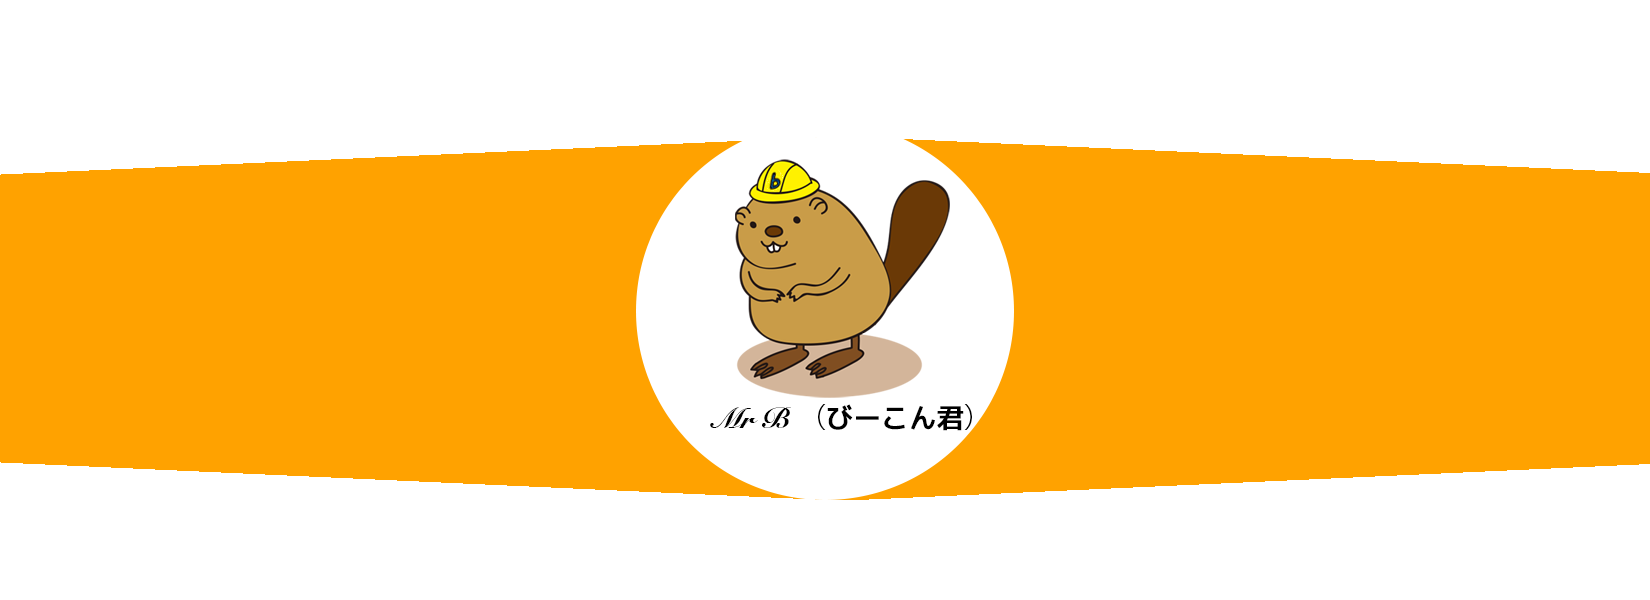
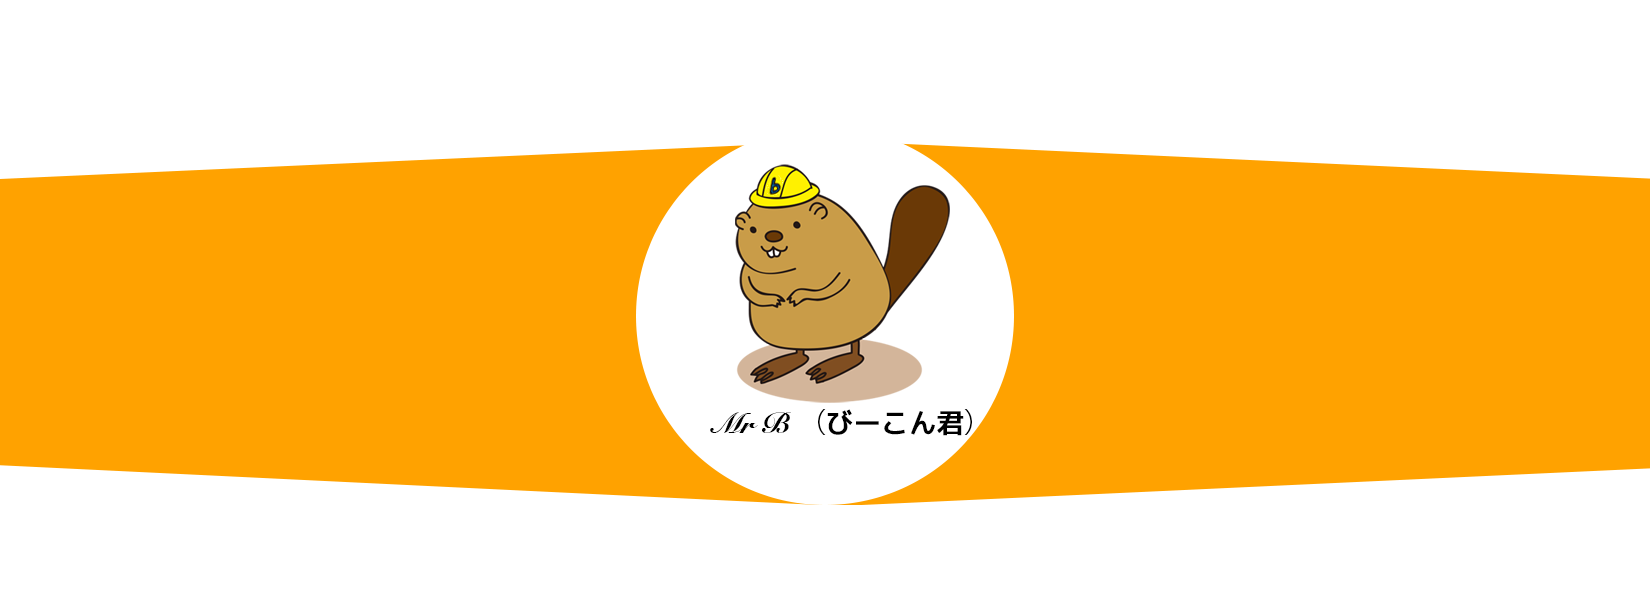
Better diagonal lines

diff --git a/assets/css/style.css b/assets/css/style.css
@@ -17,7 +17,7 @@
 
 #beacon #heroimage {
     position: relative;
-    margin-top: -59px;
+    margin-top: -62px;
     margin-bottom: -79px;
     height: 600px;
     background: rgba(0,0,0,0) url(/assets/images/heroimage-beacon.png) repeat-x center 0;
